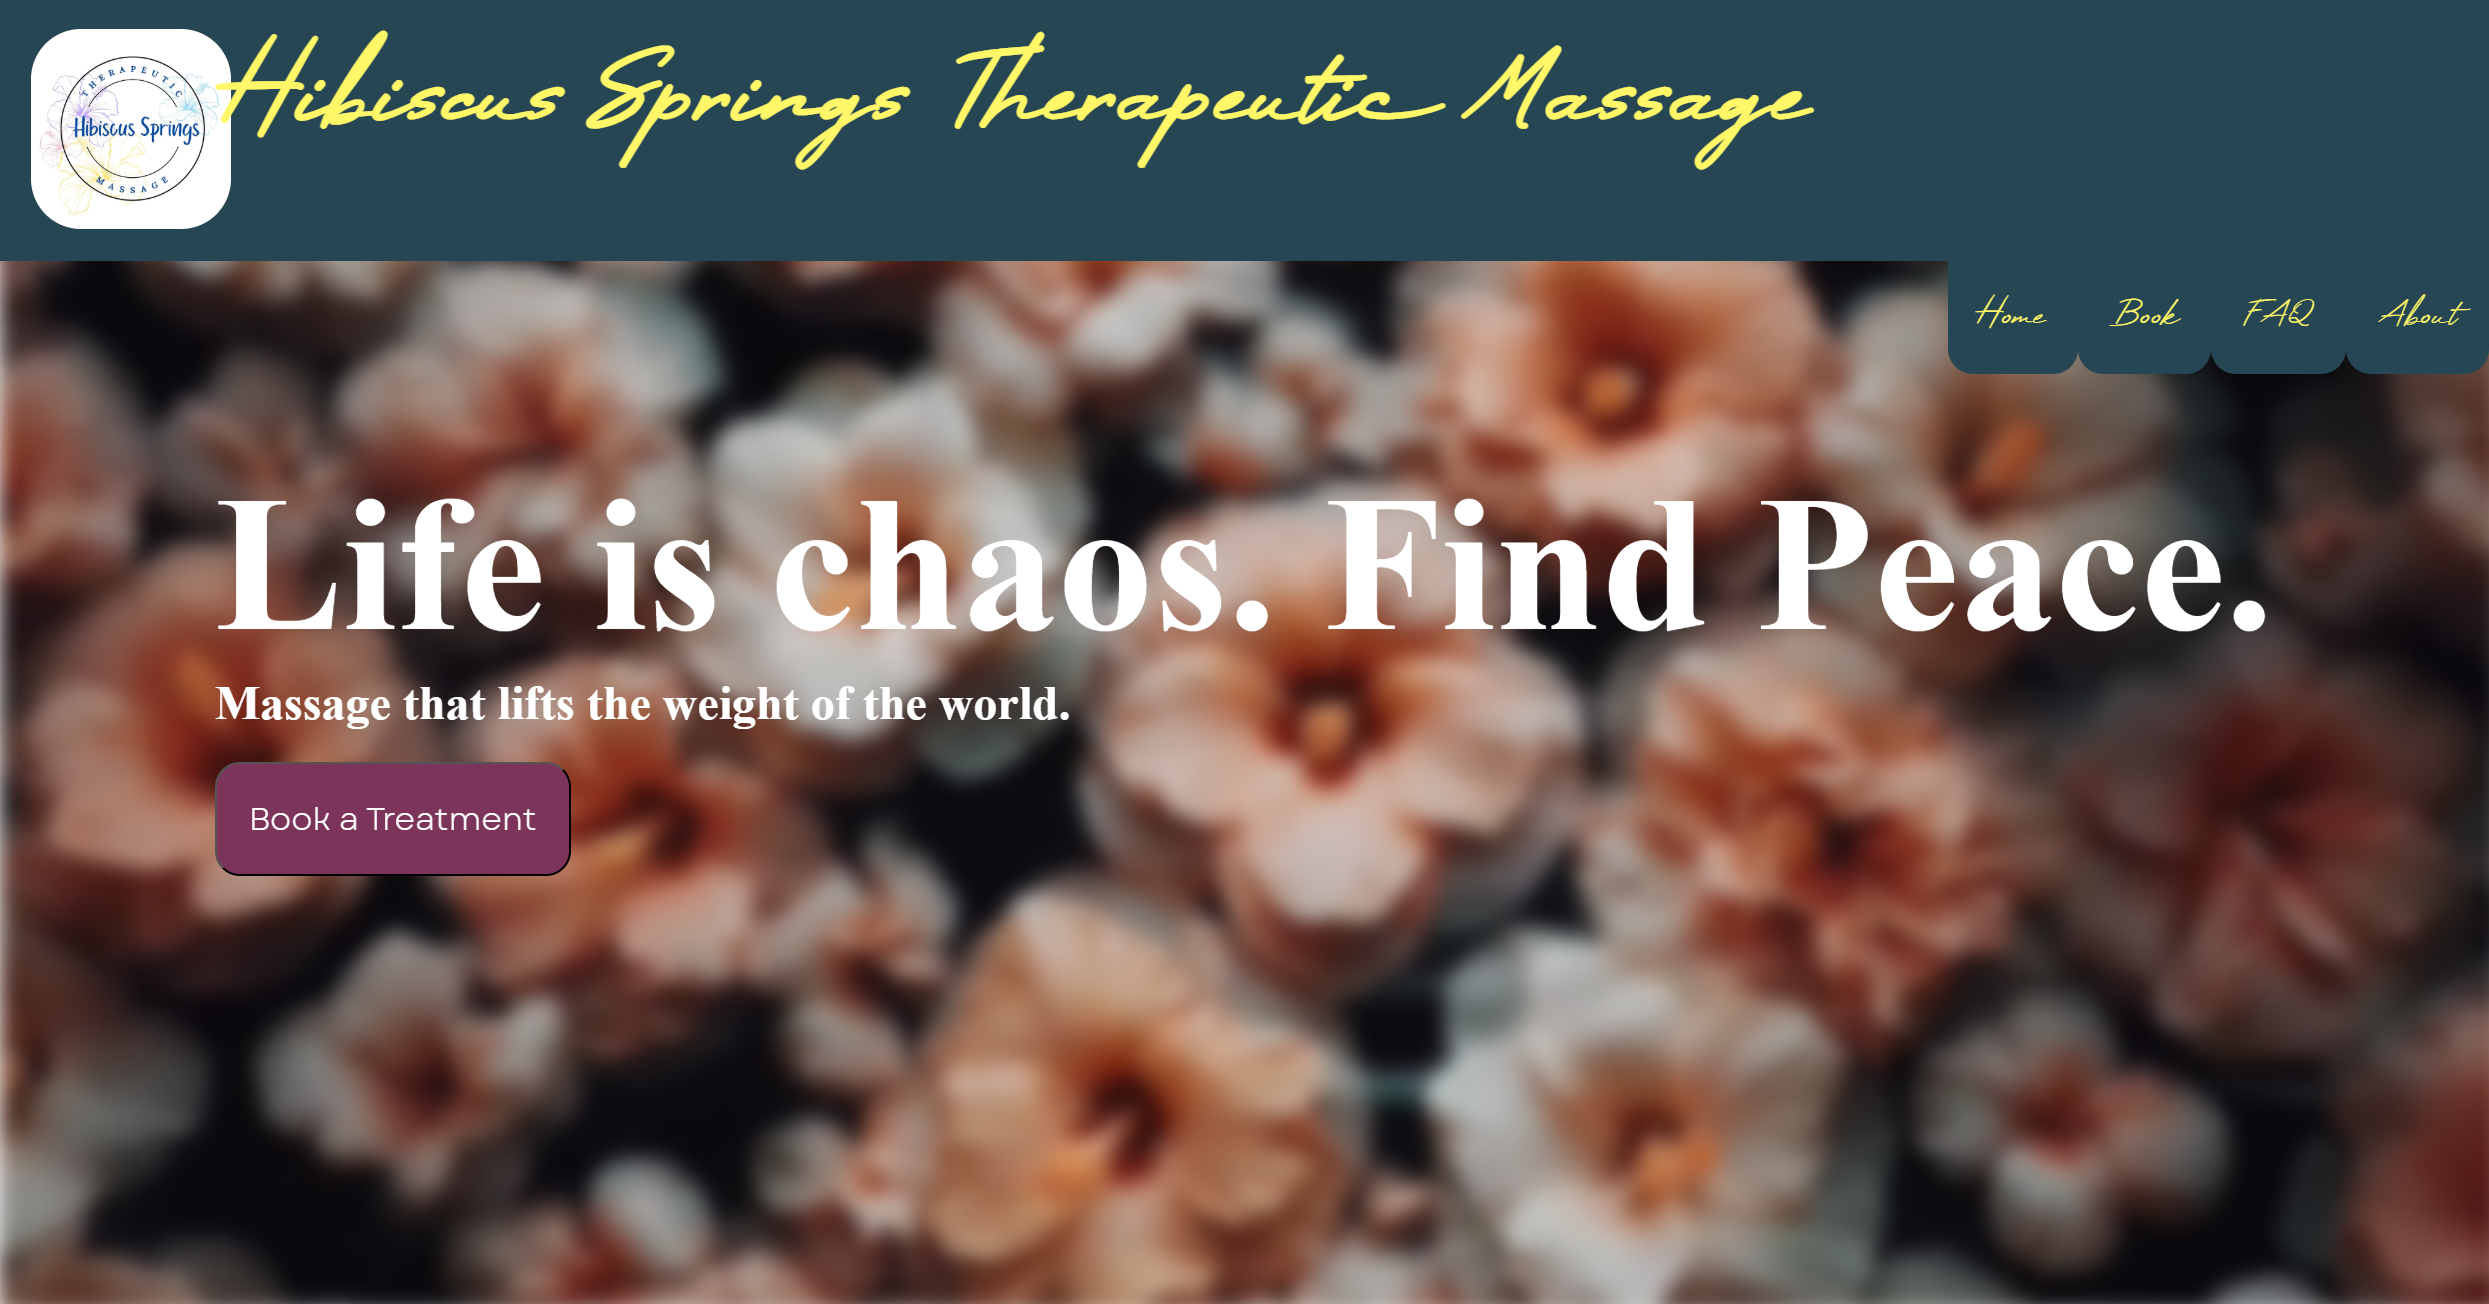
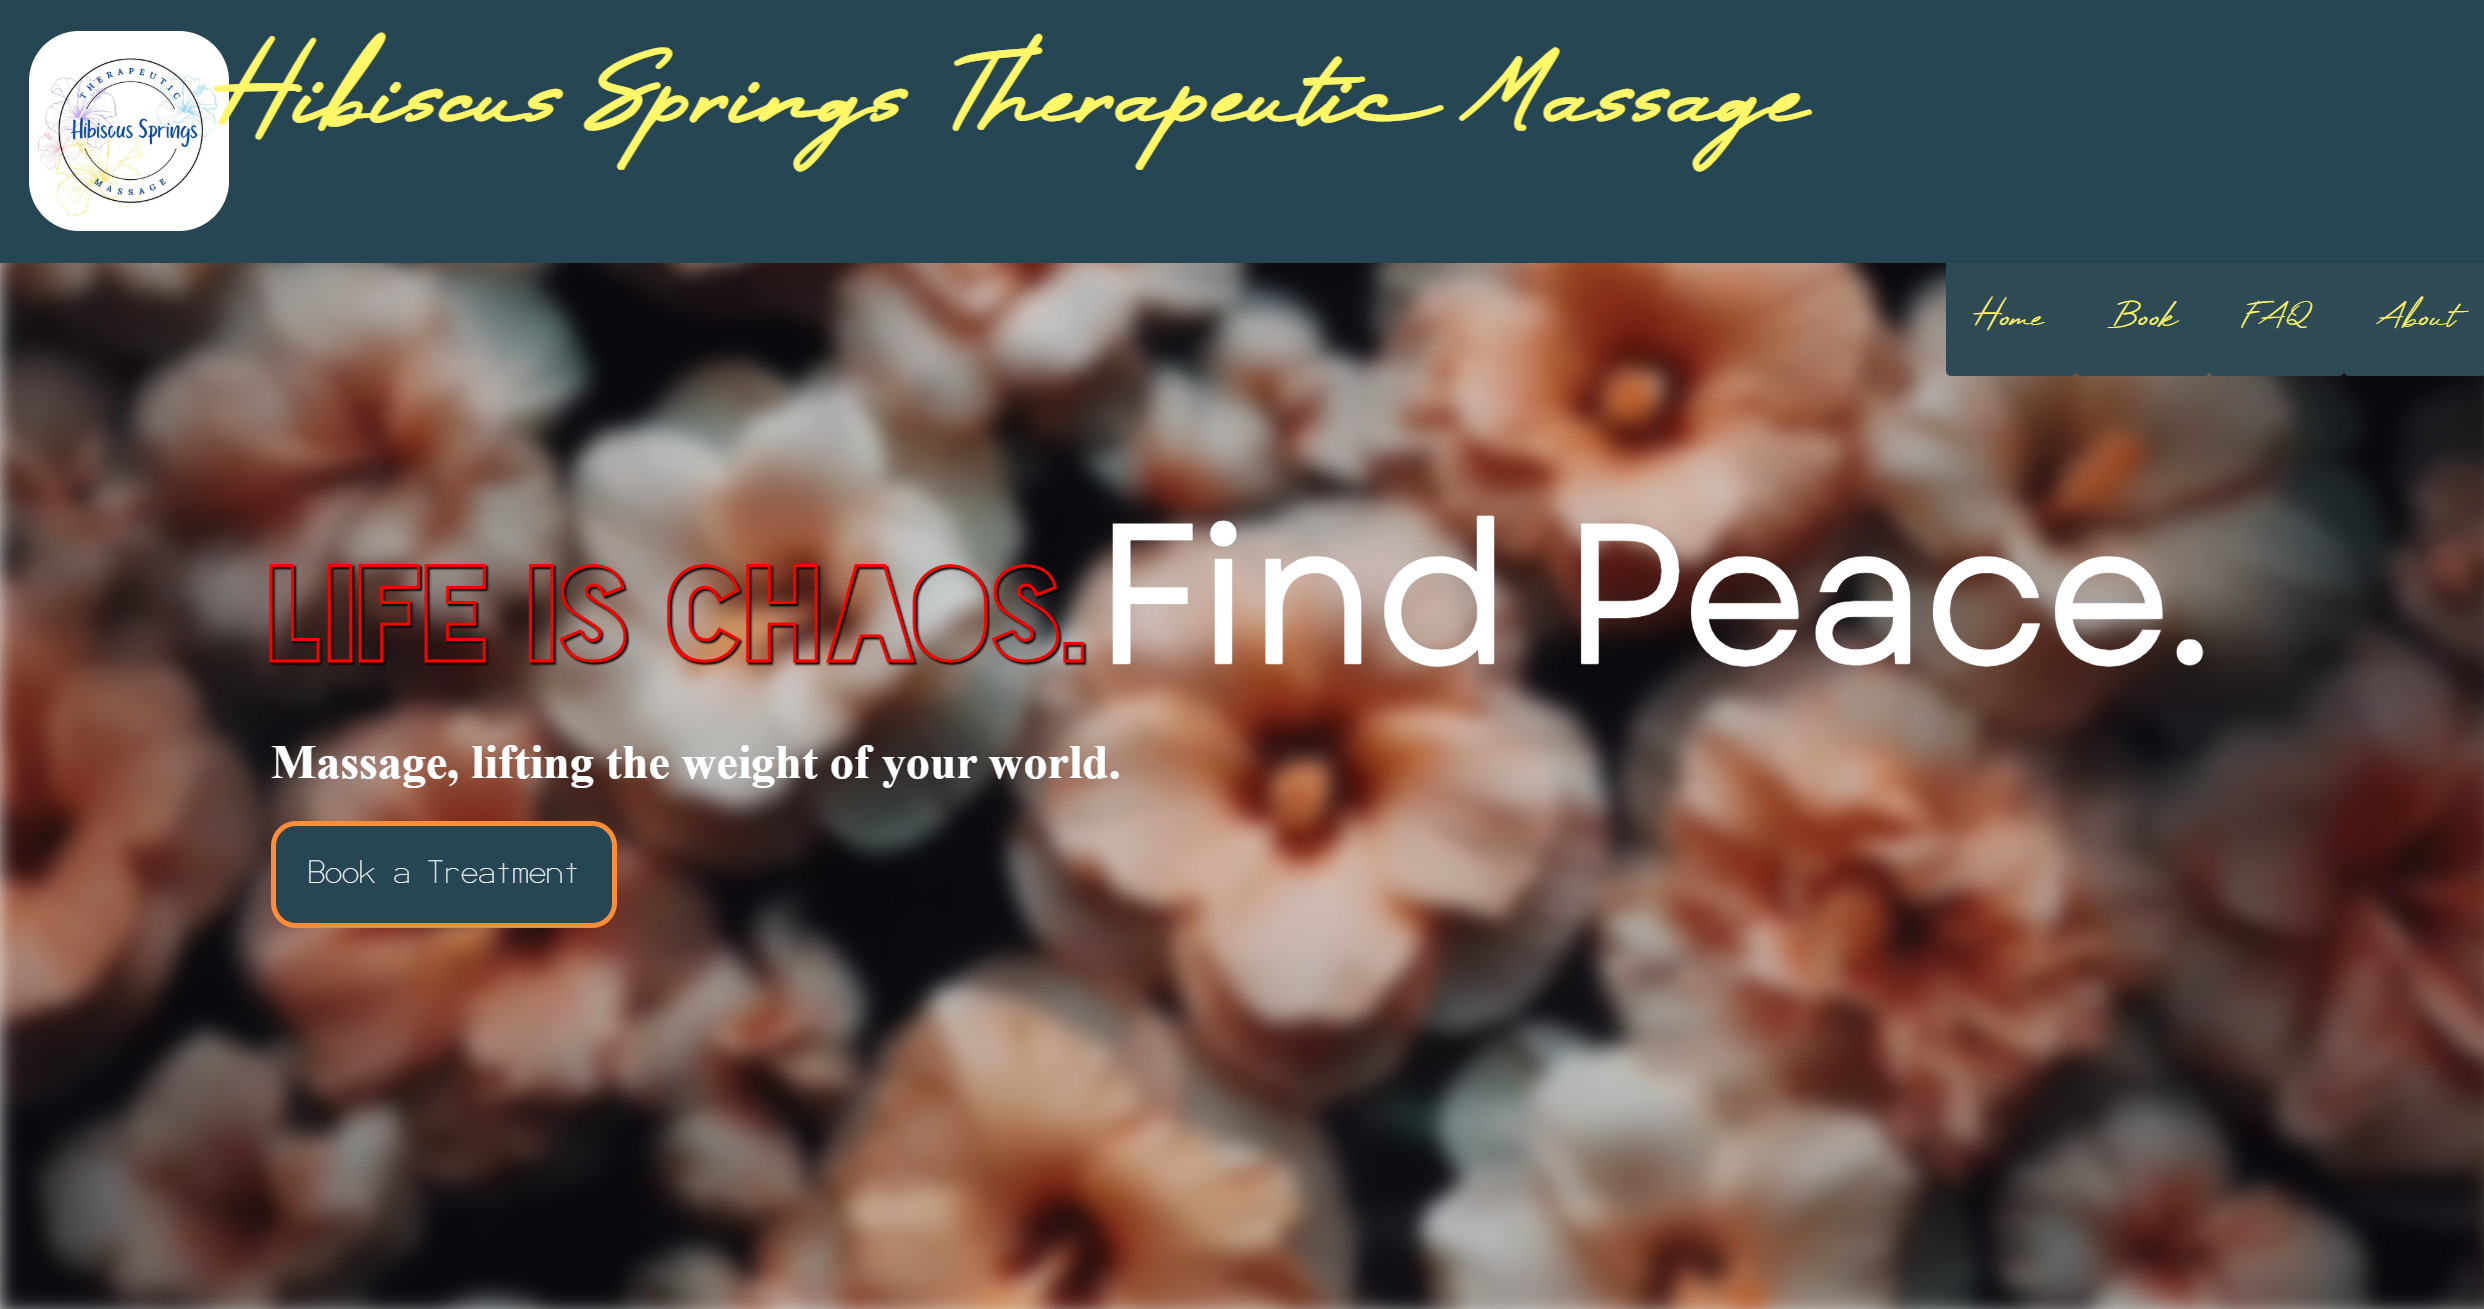
web 1 development

diff --git a/HSTM/css/styleW3B1.css b/HSTM/css/styleW3B1.css
@@ -131,15 +131,50 @@ header {
     padding-top: 5rem;
 }
 
+.chaos {
+    font-size: clamp(1rem, 10vw, 8rem);
+    animation: chaosShake 3s;
+    color: red;
+    text-shadow: 2px 2px 2px black;
+}
 
+@keyframes chaosShake {
+    0% {
+        color: white;
+        text-shadow: 0 0 0 black;
+
+    }
+    100% {
+        color: red;
+        text-shadow: 2px 2px 2px black;
+
+    }
+}
+
+.peace {
+    color: rgba(255, 255, 255, 1);
+    
+}
+
+.fade-in {
+    animation: fadeIn 6s;
+}
+
+@keyframes fadeIn {
+    0% { opacity: 0; }
+    50% { opacity: 0}
+    100% { opacity: 1; }
+  }
+  
 
 button {
     padding: 2rem;
     margin-top: 2rem;
     border-radius: 25px;
-    background-color: #7D345A;
+    border: #FF8C36 5px solid;
     color: white;
     font-size: 2rem;
+    
 }
 
 .heroDiv1 h1 {
@@ -158,13 +193,15 @@ button {
     text-decoration: none;
     padding: 2rem;
     color: #FFF768;
-    background-color: #264653;
-    border-radius: 0 0 25px 25px;
+    background-color: #2e4a55;
+    border-radius: 0 0 5px 5px;
     font-size: 2rem;
 }
 
 .navLinks a:hover {
-    transform: scale(1.2);
+    transform: scale(1, 1.2);
+    background-color: #264653;
+
 }
 
 .header_image {

diff --git a/HSTM/pages/minimalist_illustration.html b/HSTM/pages/minimalist_illustration.html
@@ -31,9 +31,9 @@
     <main>
         <section class="hero_Section">
             <div class="heroDiv1">
-                <h1>Life is chaos. Find Peace.</h1>
-                <h2>Massage that lifts the weight of the world.</h2>
-                <button class="font2">Book a Treatment</button>
+                <h1><span class="font1 chaos">Life is chaos.</span><span class="font2 peace fade-in">Find Peace.</span>  </h1>
+                <h2>Massage, lifting the weight of your world.</h2>
+                <button class="font9 color_primary1">Book a Treatment</button>
             </div>
             <!-- <div class="heroDiv2">
 

diff --git a/HSTM/index.html b/HSTM/index.html
@@ -25,7 +25,7 @@
         </section>
     </header>
     <main>
-        <section class="WebSection web1">
+        <section class="WebSection">
             <h1>Semi-Max</h1>
             <a href="pages/minimalist_illustration.html"><img src="../ASSET UNOPTIMISED/Web1.png" alt="" class="web1"></a>
         </section>

diff --git a/HSTM/css/style.css b/HSTM/css/style.css
@@ -303,5 +303,13 @@ footer {
 }
 
 .web1 {
-    width: 70vw;
+    width: 80vw;
+    border-radius: 50px;
+    box-shadow: 5px 5px 15px black;
+    transform: scale(1);
+    transition: transform 1s ease-in-out;
+}
+
+.web1:hover {
+    transform: scale(1.05);
 }
